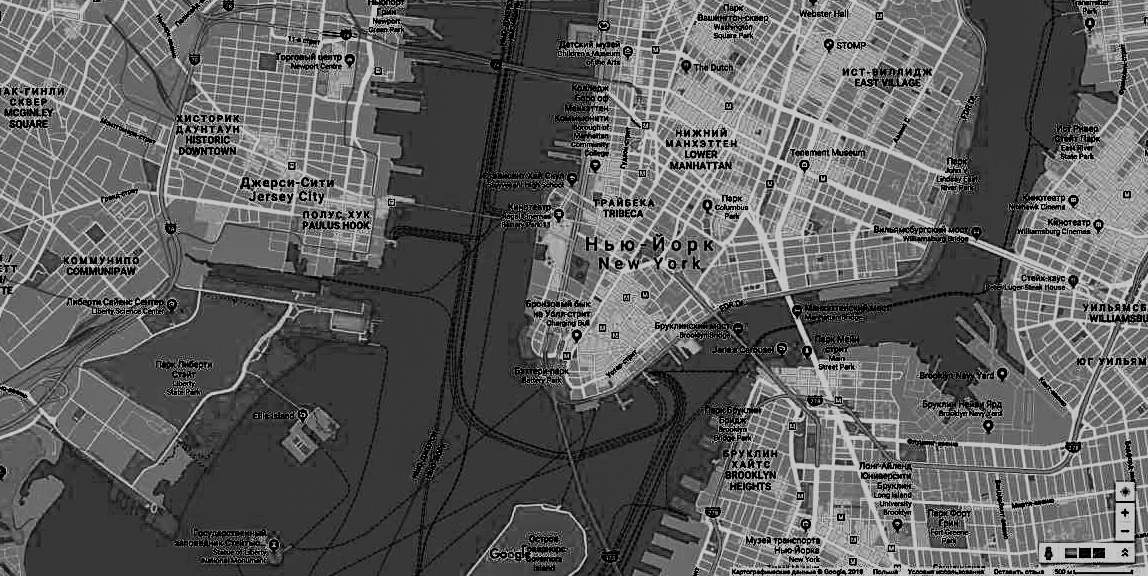
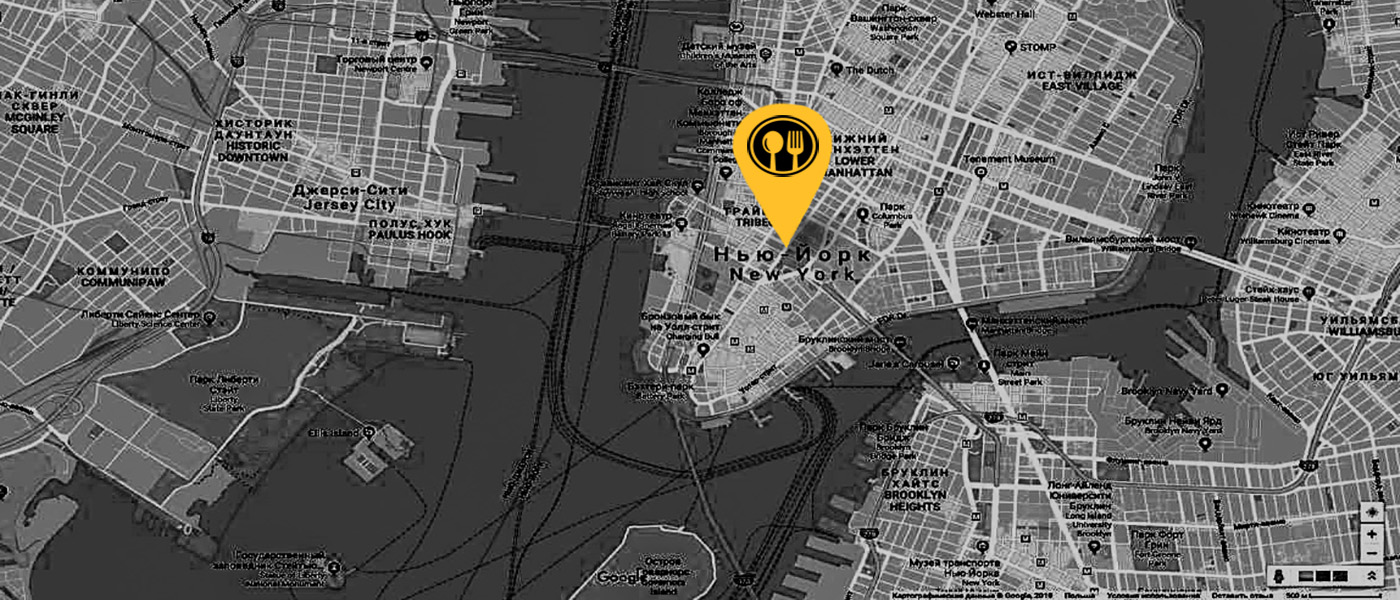
75%

diff --git a/css/style.css b/css/style.css
@@ -84,7 +84,7 @@ h8{
     font-size: 15px;
     font-family: 'Biryani';
     font-weight: bold;
-    color: white;
+    color: #ffffff;
 }
 
 h9{
@@ -125,9 +125,9 @@ img{
     height: 80px;
 	margin-right: 30px;
     float: right;
-    -webkit-box-shadow: 0 5.5px 2.5px -6px #ccc;
-    -moz-box-shadow: 0 5.5px 2.5px -6px #ccc;
-         box-shadow: 0 5.5px 2.5px -6px #ccc;
+    -webkit-box-shadow: 0 5.5px 2.5px -6px rgb(233, 233, 233);
+    -moz-box-shadow: 0 5.5px 2.5px -6px rgb(233, 233, 233);
+         box-shadow: 0 5.5px 2.5px -6px rgb(233, 233, 233);
 }
 
 .navbar li{
@@ -148,6 +148,7 @@ img{
 	font-size: 17px;
     text-decoration: none;
     list-style: none;
+
 }
 
 #figure {
@@ -209,6 +210,39 @@ img{
     border:2px solid #FFC029;
 }
 
+.button-content-5{
+    text-align: center;
+    width: 180px;
+    height: 9px;
+    padding: 10px;
+    padding-bottom: 20px;
+    margin-left: calc(52% - 130px);
+    border:2px solid #FFC029;
+}
+
+.button-content-5 a {
+    color: rgb(44, 44, 44);
+    display: block;
+    font-size: 16px;
+    font-weight: bold;
+    font-family: 'Quicksand';
+    text-align: center; 
+    text-decoration: none;
+}
+
+.figure-content-5{
+    padding: 5px 30px 5px 50px;
+    background: #FFC029;
+    -webkit-clip-path: polygon(0 0, 100% 0, 100% 100%, 0 100%, 10% 50%);
+    clip-path: polygon(0 0, 100% 0, 100% 100%, 0 100%, 10% 50%);
+}
+.figure-content-5 a{
+    font-family: 'Dancing Script';
+    font-weight: bold;
+    font-size: 20px;
+    color:#ffffff;
+}
+
 .button-header a {
     color: rgb(44, 44, 44);
     display: block;
@@ -227,7 +261,7 @@ img{
     font-family: 'Quicksand';
     text-align: center; 
     text-decoration: none;
-   }
+}
 
 #figure-2{
     width: 32%;
@@ -295,7 +329,7 @@ clip-path: polygon(0 0, 60% 0, 100% 100%, 0% 100%);
 .special-nav a{
     font-family: 'Dancing Script';
     text-decoration: none;
-    color: white;
+    color: #ffffff;
 }
 
 .special-nav a:hover{
@@ -305,7 +339,7 @@ clip-path: polygon(0 0, 60% 0, 100% 100%, 0% 100%);
 .special-nav-2 a{
     font-family: 'Dancing Script';
     text-decoration: none;
-    color: white;
+    color: #ffffff;
 }
 
 .special-nav-2 a:hover{
@@ -366,11 +400,29 @@ clip-path: polygon(0 0, 60% 0, 100% 100%, 0% 100%);
     margin: 0;
 }
 
+.grid-container-4{
+    display: grid;
+    min-height: 600px;
+    grid-template-columns: repeat(auto-fill, minmax(2fr, 1fr, 2fr));
+    background: url("../images/content-3.png");
+    background-position: bottom right;
+    background-repeat:no-repeat;
+    background-size: cover ;
+    margin: 0;
+}
+
+.grid-container-5{
+display: grid;
+grid-template-columns: 1fr;
+grid-template-areas: 2fr 1fr 2fr;
+margin: 0;
+}
+
 .container-4{
     height: 450px;
     background-image: url("../images/map_new_york.jpg");
     background-repeat:no-repeat;
-    background-position: bottom right;
+    background-position: top right;
     background-size: cover;
 }
 
@@ -412,18 +464,70 @@ clip-path: polygon(0 0, 60% 0, 100% 100%, 0% 100%);
     padding-bottom:20px;
     grid-column: 1/4;
 }
+
 .item-2{
     display: grid;
     grid-template-columns: repeat(auto-fill, minmax(100px, 100px, 100px));
     margin: 0;
 }
+
 .item-3{
     display: grid;
     margin: 0;
 }
+
 .item-4{
     grid-column: 1/4;
     padding-bottom: 30px;
+}
+
+.item-5{
+    text-align: center;
+    padding-top:40px;
+    grid-column: 1/4;
+}
+
+.item-6{
+    text-align: center;
+    display: grid;
+    min-width: 300px;
+    margin: 0;
+    padding-left: calc(15% - 50px);
+}
+
+.item-7{
+    display: grid;
+    padding:0px 50px 0px 55px;
+    margin: 0;
+}
+
+.item-8{
+    text-align: center;
+    display: grid;
+    min-width: 300px;
+    margin: 0;
+    padding-right: calc(15% - 50px);
+}
+
+.item-9{
+    grid-column: 1/4;
+    padding-top: 45px;
+}
+
+.item-10{
+    display: grid;
+    float: left;
+    padding-left: 20px;
+    padding-right: 20px;
+    margin: 0;
+}
+
+.item-11{
+    display: grid;
+    float: right;
+    padding-left: 20px;
+    padding-right: 20px;
+    margin: 0;
 }
 /*--------Grid 2-----------*/
 
@@ -450,7 +554,37 @@ clip-path: polygon(0 0, 60% 0, 100% 100%, 0% 100%);
     font-family: 'Martel';
     color: rgb(44, 44, 44);
     font-size: 18px;
-    font-weight: 600;
+    font-weight: bold;
+}
+
+.content-5-text{
+    font-family: 'Martel';
+    color: rgb(44, 44, 44);
+    font-size: 18px;
+    font-weight: bold;
+}
+
+.content-5-text-2{
+    margin: 0;
+    padding: 0;
+    font-family: 'Martel';
+    color: rgb(44, 44, 44);
+    font-size: 18px;
+    font-weight: bold;
+}
+
+.content-5-text-2 a{
+    font-weight: bold;
+    font-family: 'Quicksand';
+    border-bottom: #FFC029 2px solid;
+    
+}
+
+.grid-container-7{
+    display: grid;
+    grid-template-columns: repeat(auto-fit, minmax(100px, 1fr 1fr));
+    border: 1px solid red;
+
 }
 
 .line3 {

diff --git a/index.html b/index.html
@@ -115,7 +115,6 @@
 
         <div class="container-4">
             <div class="figure-3"></div>
-            <div class="figure-4"><span class="icon-restaurant-cutlery"></span></div>
             <div class="figure-3-text">
                 <h10 style="letter-spacing:-1;">We Are Open</h10>
                 <h2 style="font-size:34px; color: #ffffff;">7 DAYS A WEEK</h2>
@@ -123,16 +122,61 @@
             </div>
         </div>
 
-        <div class="grid-container-4">
+        <div>
+            <div class="grid-container-4">
+                <div class="item-5">
+                            <h7>What's Shakin' Over Here</h7>
+                            <h2 style="font-size:33px;">NEWS & EVENTS</h2>
+                </div>
+                <div class="item-6">
+                        <div style="border-right:1px solid #aaa; padding-top: 30px;"><span class="figure-content-5"><a>November, 27</a></span></div>
+                        </br>
+                        <div style="border-right:1px solid #aaa;"><span class="figure-content-5"><a>November, 13</a></span></div>
+                </div>
+                <div class="item-7">
+                        <div class="grid-container-5">
+                                <div><div class="content-5-text">
+                                    Dolorem Ipsum Quia
+                                    <h4>Lorem ipsum dolor sit amet, consectetur adipiscing elit. Donec eget auctor magna. Proin at ultricies leo. Integer...</h4></div></div>
+                                </br>
+                                <div><div class="content-5-text">
+                                    Adipisci Velit Labam
+                                    <h4>Lorem ipsum dolor sit amet, consectetur adipiscing elit. Donec eget auctor magna. Proin at ultricies leo. Integer...</h4></div></div>
+                        </div>
+                </div>
+                <div class="item-8">
 
+                            <div style="border-left:1px solid #aaa; padding-top: 25px;"><div class="content-5-text-2"><a>READ MORE</a></div></div>
+                            </br>
+                            <div style="border-left:1px solid #aaa;"><div class="content-5-text-2"><a>READ MORE</a></div></div>
+
+            </div>
+                <div class="item-9">
+                    <div class="button-content-5">
+                        <a href="#">
+                                    READ OUR BLOG
+                                    <span class="icon-right-arrow"></span>
+                        </a>
+                    </div>
+                </div>
+            </div>
         </div> 
-
-        <div class="grid-container-5">
-            
-        </div>
         
         <div class="footer">
-
+            <div class="grid-container-7">
+                <div class="grid-container-7">
+                        <div class="item-10">sdgsd</div>
+                        <div class="item-11">sdgsdg</div>
+                </div>
+            </div>
+            <div class="grid-container-7">
+                    <div class="grid-container-7">
+                            <div class="grid-container-7">
+                                    <div class="item-10">sdgsd</div>
+                                    <div class="item-11">sdgsdg</div>
+                            </div>
+                    </div>
+            </div>
         </div>
     </body>
 

diff --git a/icomoon-fonts/style-font.css b/icomoon-fonts/style-font.css
@@ -64,5 +64,6 @@
 
 .icon-right-arrow:before {
   color: grey;
+  padding-left: 5px;
   content: "\e906";
 }
